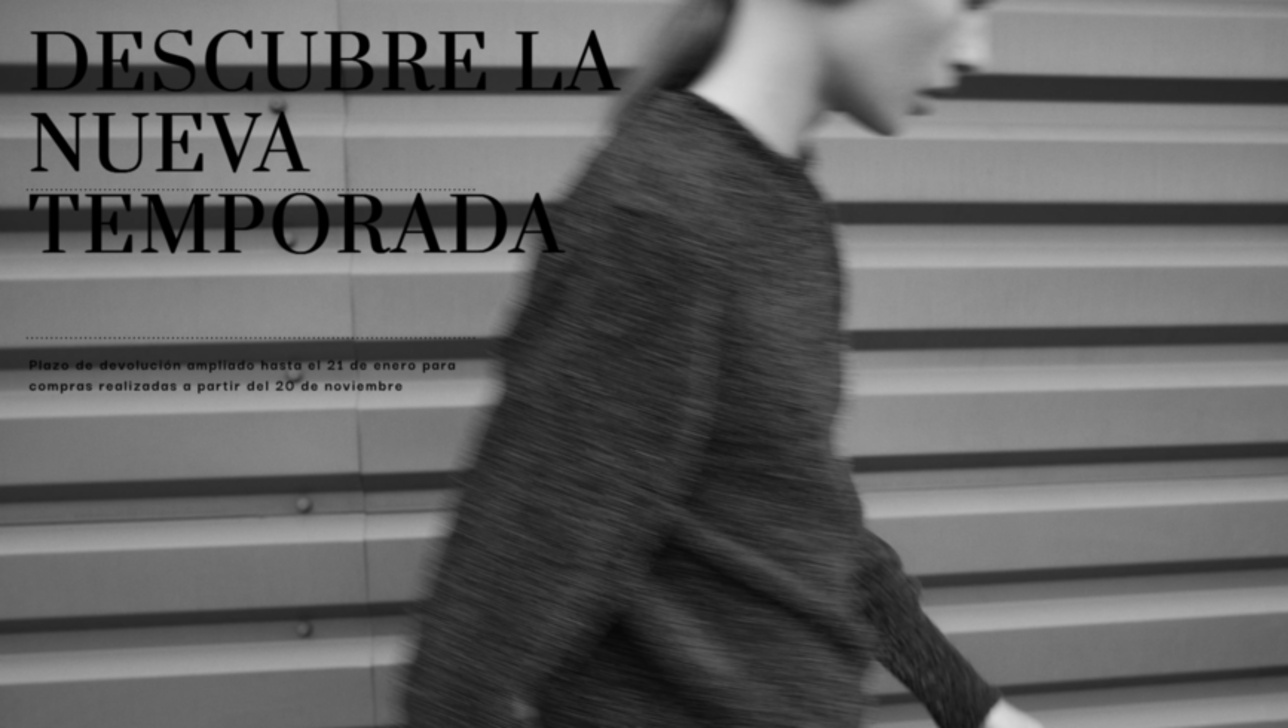
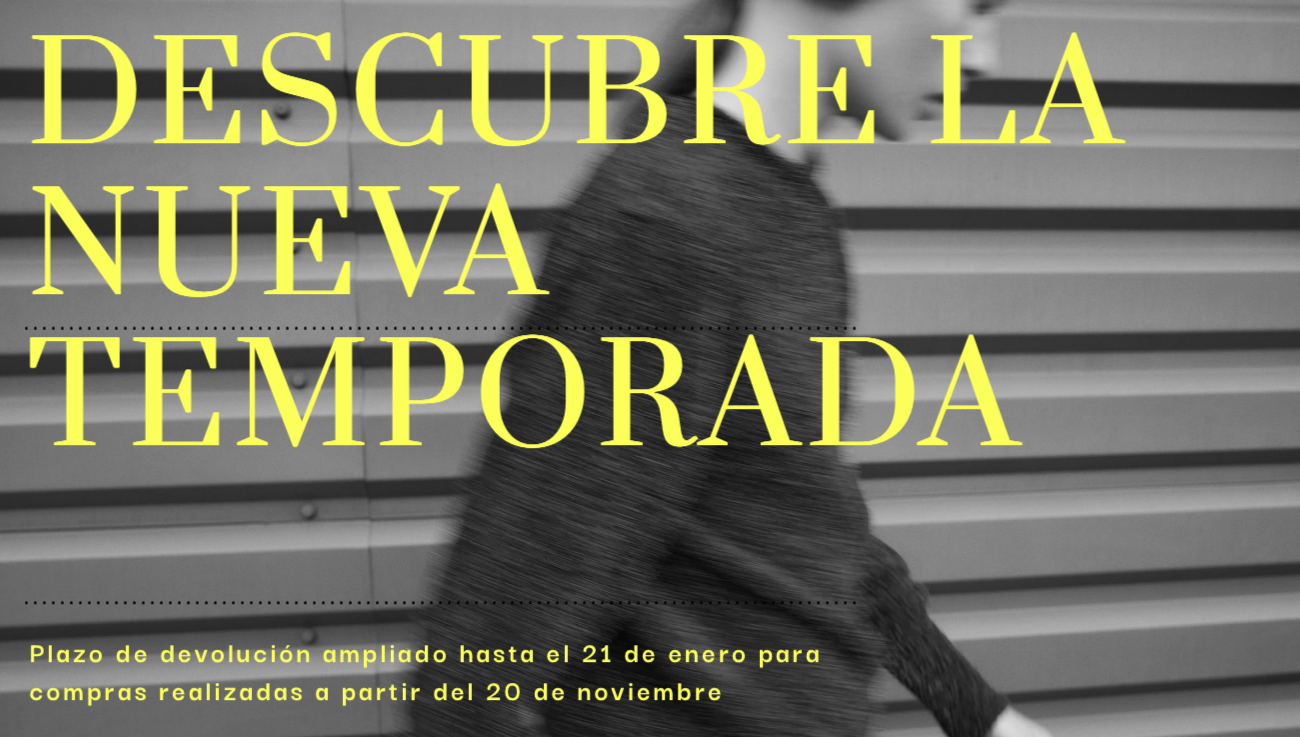
.

diff --git a/NatiShop/src/ventanas/VentanaPrincipal.java b/NatiShop/src/ventanas/VentanaPrincipal.java
@@ -191,18 +191,9 @@ public class VentanaPrincipal extends JFrame {
 			public void mouseClicked(MouseEvent e) {
 				limpiarPanel(pnlArticulos);
 				pnlArticulos.setLayout(null);
-		        JLabelGrafico fotoPortada = new JLabelGrafico("/imagenes/portada2.png",1300,490);
+		        JLabelGrafico fotoPortada = new JLabelGrafico("/imagenes/portada.png",1300,490);
 		        fotoPortada.setLocation(0, 0);
-		        pnlArticulos.add(fotoPortada);
-		        System.out.println(pnlArticulos.getWidth());
-		        
-		        
-		        JLabel labelPortada = new JLabel("VER NUEVA TEMPORADA");
-		        labelPortada.setForeground(Color.WHITE);  // Establece el color del texto
-
-		        labelPortada.setBounds(137, 145, 181, 90);
-		        pnlArticulos.add(labelPortada);
-				
+		        pnlArticulos.add(fotoPortada);	
 			}
 		});
 
@@ -234,16 +225,9 @@ public class VentanaPrincipal extends JFrame {
         
         //PORTADA DE LA TIENDA
         pnlArticulos.setLayout(null);
-        JLabelGrafico fotoPortada = new JLabelGrafico("/imagenes/portada2.png",pnlArticulos.getWidth(),pnlArticulos.getHeight());
+        JLabelGrafico fotoPortada = new JLabelGrafico("/imagenes/portada.png",pnlArticulos.getWidth(),pnlArticulos.getHeight());
         fotoPortada.setLocation(0, 0);
         pnlArticulos.add(fotoPortada);
-        
-        
-        JLabel labelPortada = new JLabel("VER NUEVA TEMPORADA");
-        labelPortada.setForeground(Color.WHITE);  // Establece el color del texto
-
-        labelPortada.setBounds(137, 145, 181, 90);
-        pnlArticulos.add(labelPortada);
         
         
         
@@ -272,8 +256,6 @@ public class VentanaPrincipal extends JFrame {
         menuItemCamiH.addActionListener(new ActionListener() {
             @Override
             public void actionPerformed(ActionEvent e) {
-        		System.out.println("pulsado");
-        		System.out.println("Grid puesto");
         		limpiarPanel(pnlArticulos);
                 pnlArticulos.setLayout(new GridLayout(0, 4, 10, 10));
 
@@ -292,8 +274,6 @@ public class VentanaPrincipal extends JFrame {
         menuItemJersH.addActionListener(new ActionListener() {
             @Override
             public void actionPerformed(ActionEvent e) {
-        		System.out.println("pulsado");
-        		System.out.println("Grid puesto");
         		limpiarPanel(pnlArticulos);
                 pnlArticulos.setLayout(new GridLayout(0, 4, 10, 10));
 
@@ -310,8 +290,6 @@ public class VentanaPrincipal extends JFrame {
         menuItemPantH.addActionListener(new ActionListener() {
             @Override
             public void actionPerformed(ActionEvent e) {
-        		System.out.println("pulsado");
-        		System.out.println("Grid puesto");
         		limpiarPanel(pnlArticulos);
                 pnlArticulos.setLayout(new GridLayout(0, 4, 10, 10));
 
@@ -329,8 +307,6 @@ public class VentanaPrincipal extends JFrame {
         menuItemCalzH.addActionListener(new ActionListener() {
             @Override
             public void actionPerformed(ActionEvent e) {
-        		System.out.println("pulsado");
-        		System.out.println("Grid puesto");
         		limpiarPanel(pnlArticulos);
                 pnlArticulos.setLayout(new GridLayout(0, 4, 10, 10));
 
@@ -352,8 +328,6 @@ public class VentanaPrincipal extends JFrame {
         menuItemCamiM.addActionListener(new ActionListener() {
             @Override
             public void actionPerformed(ActionEvent e) {
-        		System.out.println("pulsado");
-        		System.out.println("Grid puesto");
         		limpiarPanel(pnlArticulos);
                 pnlArticulos.setLayout(new GridLayout(0, 4, 10, 10));
 
@@ -370,8 +344,6 @@ public class VentanaPrincipal extends JFrame {
         menuItemJersM.addActionListener(new ActionListener() {
             @Override
             public void actionPerformed(ActionEvent e) {
-        		System.out.println("pulsado");
-        		System.out.println("Grid puesto");
         		limpiarPanel(pnlArticulos);
                 pnlArticulos.setLayout(new GridLayout(0, 4, 10, 10));
 
@@ -382,15 +354,12 @@ public class VentanaPrincipal extends JFrame {
         			}
         		}
         		setJerseys(jersM,pnlArticulos);
-        		System.out.println(jersM);
         	}
         });
         
         menuItemPantM.addActionListener(new ActionListener() {
             @Override
             public void actionPerformed(ActionEvent e) {
-        		System.out.println("pulsado");
-        		System.out.println("Grid puesto");
         		limpiarPanel(pnlArticulos);
                 pnlArticulos.setLayout(new GridLayout(0, 4, 10, 10));
 
@@ -408,8 +377,6 @@ public class VentanaPrincipal extends JFrame {
         menuItemCalzM.addActionListener(new ActionListener() {
             @Override
             public void actionPerformed(ActionEvent e) {
-        		System.out.println("pulsado");
-        		System.out.println("Grid puesto");
         		limpiarPanel(pnlArticulos);
                 pnlArticulos.setLayout(new GridLayout(0, 4, 10, 10));
 
@@ -429,8 +396,6 @@ public class VentanaPrincipal extends JFrame {
         menuItemCamiN.addActionListener(new ActionListener() {
             @Override
             public void actionPerformed(ActionEvent e) {
-        		System.out.println("pulsado");
-        		System.out.println("Grid puesto");
         		limpiarPanel(pnlArticulos);
                 pnlArticulos.setLayout(new GridLayout(0, 4, 10, 10));
 
@@ -447,8 +412,6 @@ public class VentanaPrincipal extends JFrame {
         menuItemJersN.addActionListener(new ActionListener() {
             @Override
             public void actionPerformed(ActionEvent e) {
-        		System.out.println("pulsado");
-        		System.out.println("Grid puesto");
         		limpiarPanel(pnlArticulos);
                 pnlArticulos.setLayout(new GridLayout(0, 4, 10, 10));
 
@@ -465,8 +428,6 @@ public class VentanaPrincipal extends JFrame {
         menuItemPantN.addActionListener(new ActionListener() {
             @Override
             public void actionPerformed(ActionEvent e) {
-        		System.out.println("pulsado");
-        		System.out.println("Grid puesto");
         		limpiarPanel(pnlArticulos);
                 pnlArticulos.setLayout(new GridLayout(0, 4, 10, 10));
 
@@ -484,8 +445,6 @@ public class VentanaPrincipal extends JFrame {
         menuItemCalzN.addActionListener(new ActionListener() {
             @Override
             public void actionPerformed(ActionEvent e) {
-        		System.out.println("pulsado");
-        		System.out.println("Grid puesto");
         		limpiarPanel(pnlArticulos);
                 pnlArticulos.setLayout(new GridLayout(0, 4, 10, 10));
 
@@ -542,45 +501,34 @@ public class VentanaPrincipal extends JFrame {
 	
 	public void setCamisetas(Set<Camiseta> art, JPanel panel) {
 		this.pnlArticulos = panel;
-//		panel.setLayout(new GridLayout(0, COLUMNAS));
 		for (Camiseta a: art) {
 			JPanel pnlArticulo = crearPanelArticulo(a);
 			panel.add(pnlArticulo);
-			
-			
-			
-//			System.out.println("Añadido");
 		}	
 	}
 	
 	public void setJerseys(Set<Jersey> art, JPanel panel) {
 		this.pnlArticulos = panel;
-//		panel.setLayout(new GridLayout(0, COLUMNAS));
 		for (Jersey a: art) {
 			JPanel pnlArticulo = crearPanelArticulo(a);
 			panel.add(pnlArticulo);
-//			System.out.println("Añadido");
 		}	
 	}
 	
 	
 	public void setPantalones(Set<Pantalon> art, JPanel panel) {
 		this.pnlArticulos = panel;
-//		panel.setLayout(new GridLayout(0, COLUMNAS));
 		for (Pantalon a: art) {
 			JPanel pnlArticulo = crearPanelArticulo(a);
 			panel.add(pnlArticulo);
-//			System.out.println("Añadido");
 		}	
 	}
 	
 	public void setZapatos(Set<Zapato> art, JPanel panel) {
 		this.pnlArticulos = panel;
-//		panel.setLayout(new GridLayout(0, COLUMNAS));
 		for (Zapato a: art) {
 			JPanel pnlArticulo = crearPanelArticulo(a);
 			panel.add(pnlArticulo);
-//			System.out.println("Añadido");
 		}	
 	}
 	
@@ -594,18 +542,11 @@ public class VentanaPrincipal extends JFrame {
 		
 		String rutaImagen = articulo.getFoto();
 		JLabelGrafico foto = new JLabelGrafico (rutaImagen,195,200);
-		System.out.println("Grafico creado");
-		
-//		ImageIcon foto = new ImageIcon(rutaImagen);
-		
-//		JLabel etiqueta = new JLabel(foto);
-		
+				
 		JLabel titulo = new JLabel("     "+articulo.getNombre());
-//		titulo.setHorizontalAlignment(SwingConstants.WEST);
         titulo.setFont(new Font("Baskerville", Font.PLAIN, 17));
         
         JLabel precio = new JLabel(articulo.getPrecio()+" EUR     ");
-//		precio.setHorizontalAlignment(SwingConstants.EAST);
 
 
 
